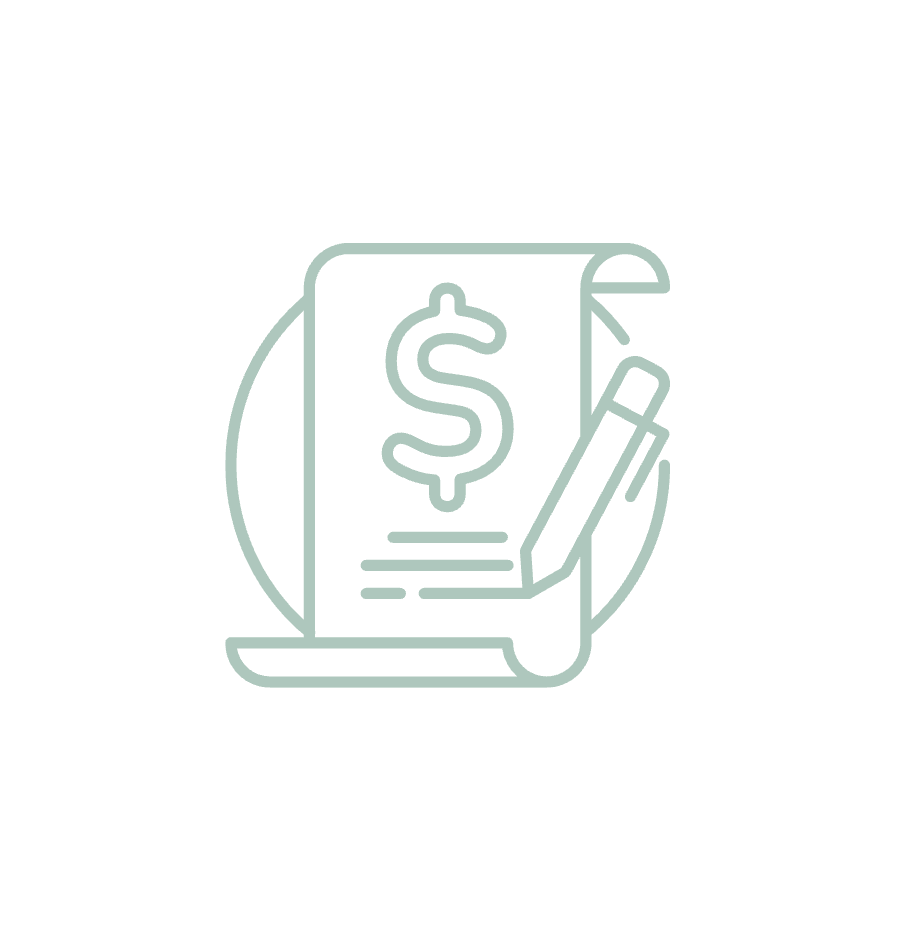
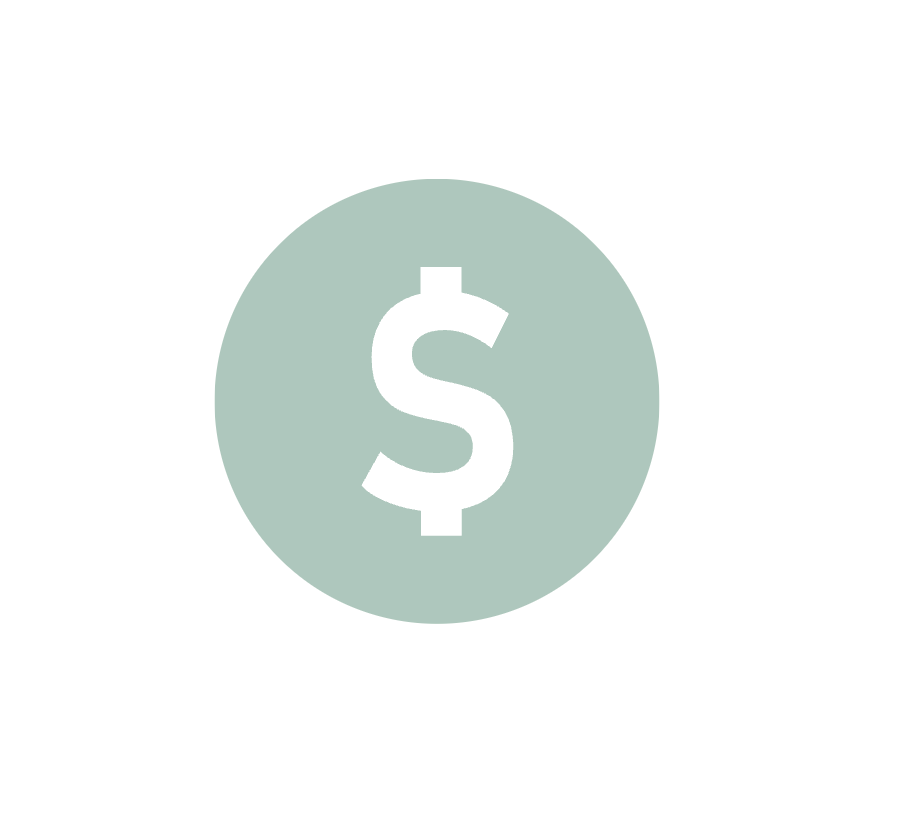
Arreglando frontend

Changed region(s): [[0.2163, 0.2119, 0.7417, 0.7567]]

diff --git a/frontend/pages/admin.html b/frontend/pages/admin.html
@@ -40,7 +40,7 @@
       <div class="stat-card"><img style="width: 50px;" src="https://raw.githubusercontent.com/yulkatesp/GestorCitas/main/frontend/img/CIT.png" alt="Total citas" class="stat-icon"><div class="stat-num" id="statTotal">—</div><div class="stat-label">Total citas</div></div>
       <div class="stat-card"><img style="width: 50px;" src="https://raw.githubusercontent.com/yulkatesp/GestorCitas/main/frontend/img/PEND.png" alt="Pendientes" class="stat-icon"><div class="stat-num" id="statPendientes">—</div><div class="stat-label">Pendientes</div></div>
       <div class="stat-card"><img style="width: 50px;" src="https://raw.githubusercontent.com/yulkatesp/GestorCitas/main/frontend/img/PAC.png" alt="Pacientes" class="stat-icon"><div class="stat-num" id="statUsuarios">—</div><div class="stat-label">Pacientes</div></div>
-      <div class="stat-card"><img style="width: 50px;" src="https://raw.githubusercontent.com/yulkatesp/GestorCitas/main/frontend/img/DOCMED.png" alt="Médicos" class="stat-icon"><div class="stat-num" id="statMedicos">—</div><div class="stat-label">Médicos</div></div>
+      <div class="stat-card"><img style="width: 50px;" src="https://raw.githubusercontent.com/yulkatesp/GestorCitas/main/frontend/img/DOC.png" alt="Médicos" class="stat-icon"><div class="stat-num" id="statMedicos">—</div><div class="stat-label">Médicos</div></div>
       <div class="stat-card"><img style="width: 50px;" src="https://raw.githubusercontent.com/yulkatesp/GestorCitas/main/frontend/img/MUL.png" alt="Con multa" class="stat-icon"><div class="stat-num" id="statMultados" style="color:#991b1b">—</div><div class="stat-label">Con multa</div></div>
     </div>
 